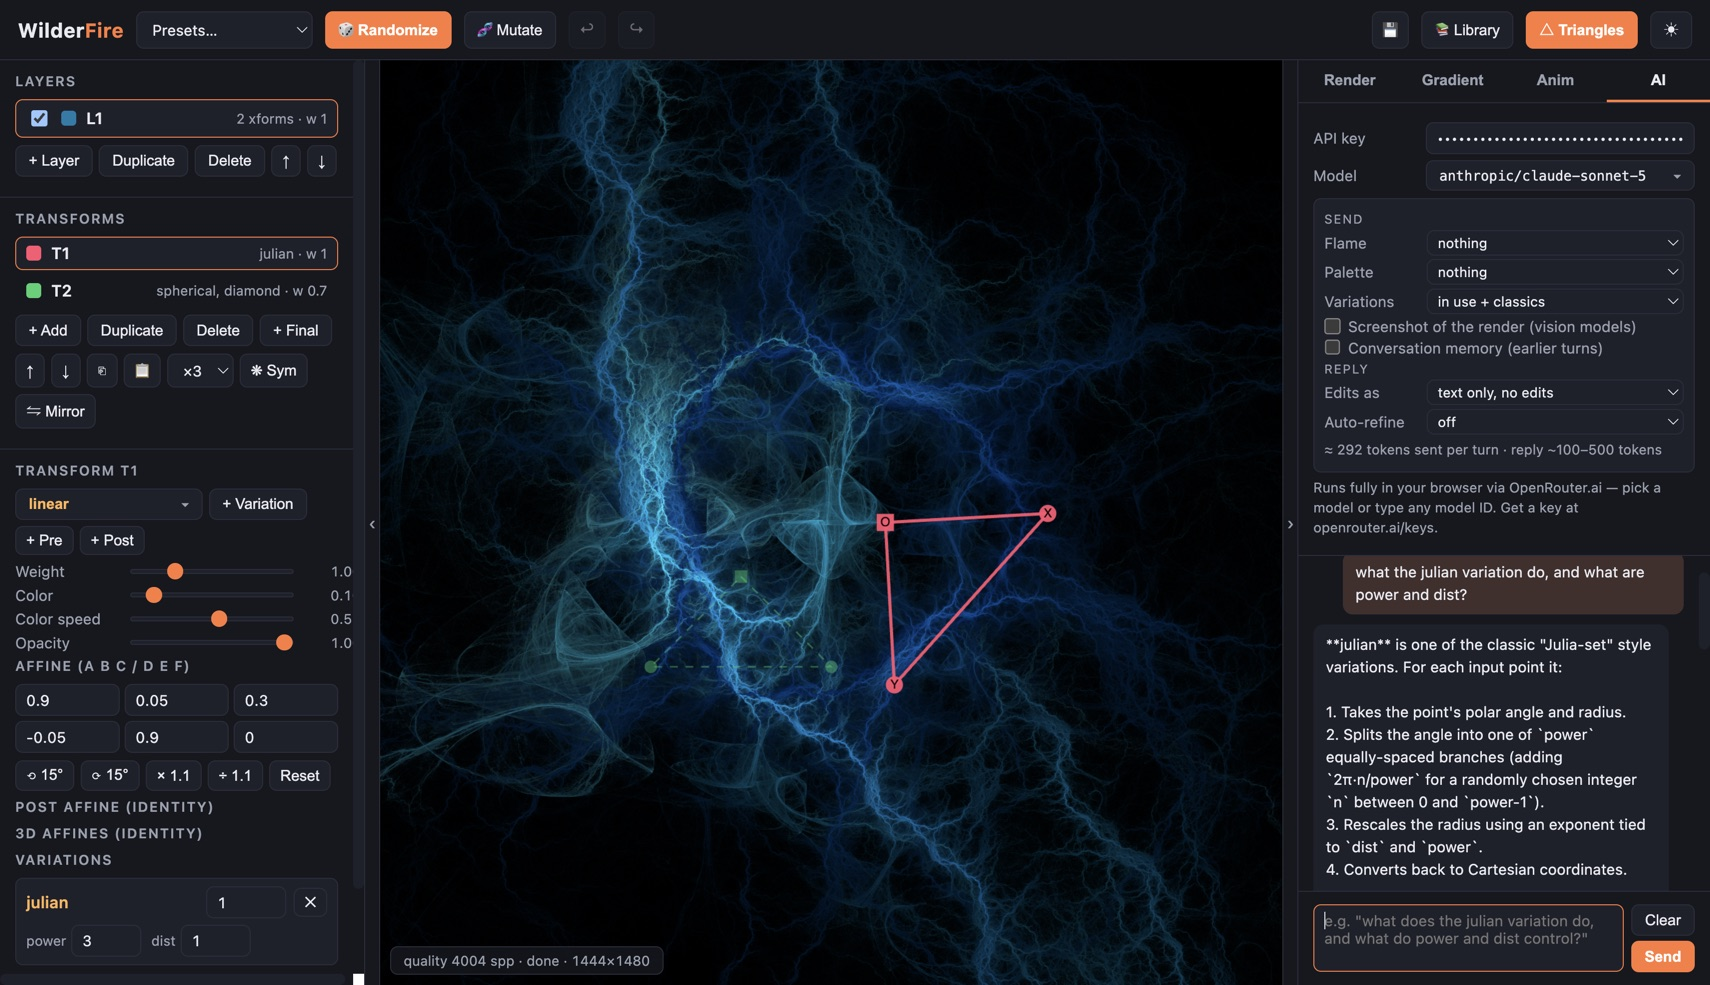
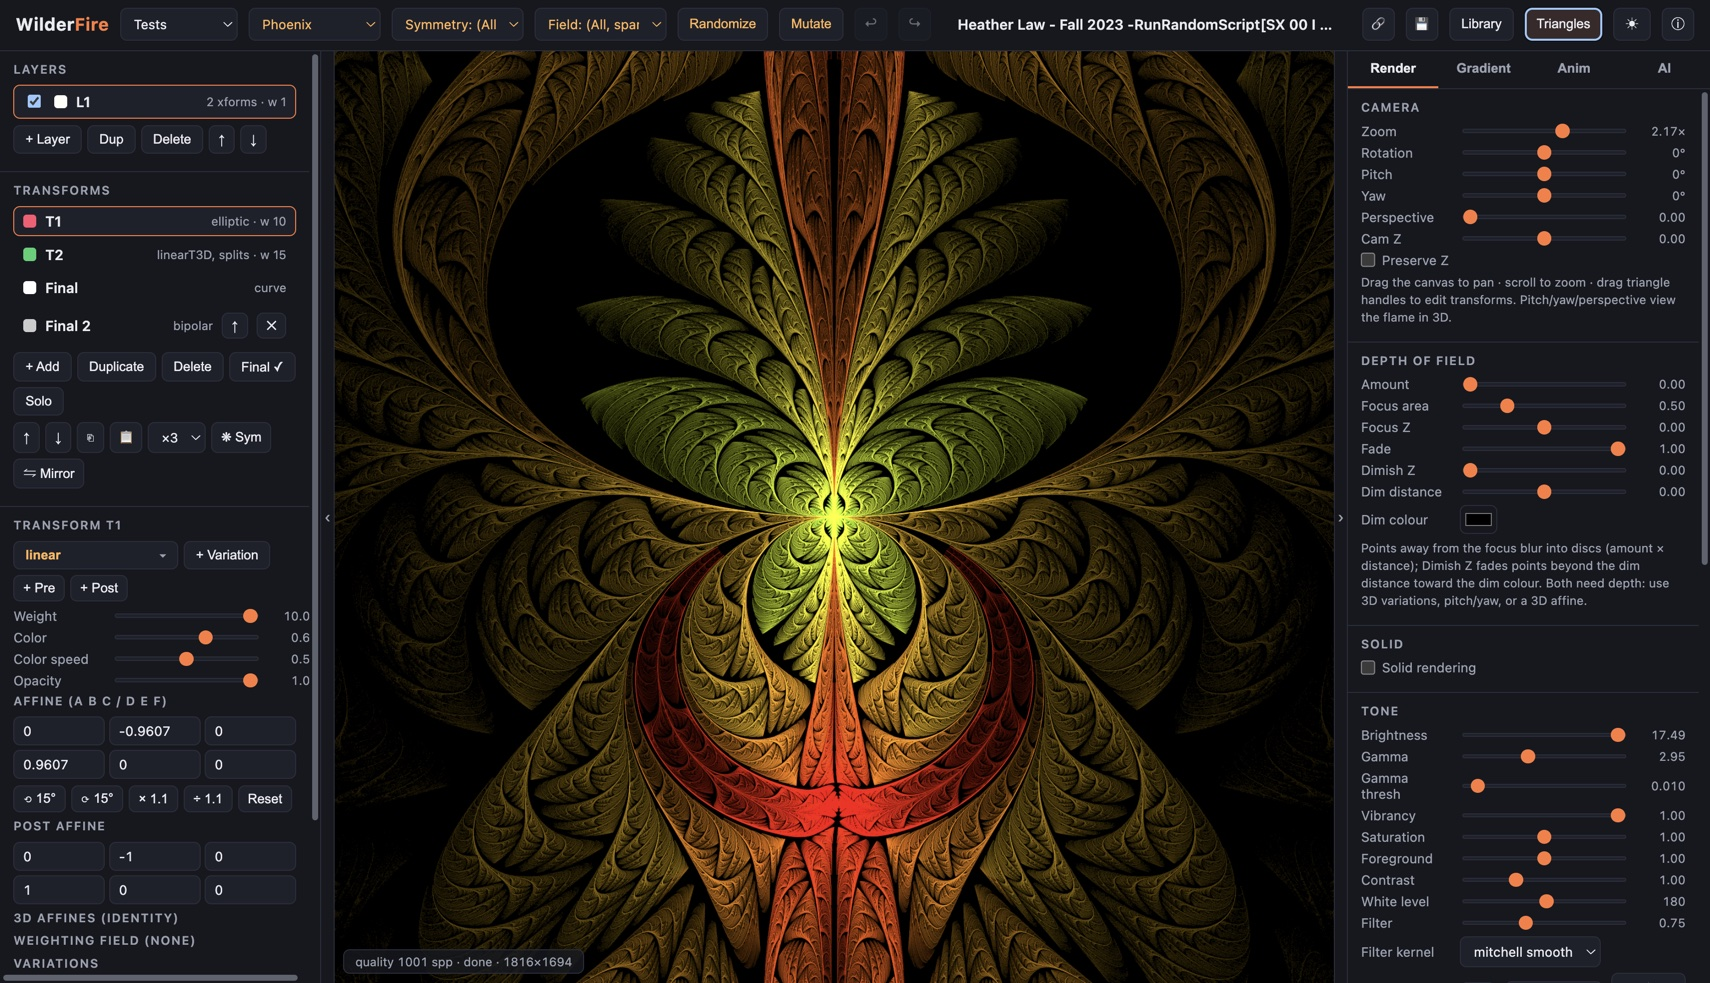
README: new hero image — the Phoenix-styled "Heather Law - Fall 2023" flame in the editor (1710px wide like the old one, JPEG q85); the alt text describes what the shot now shows

diff --git a/README.md b/README.md
@@ -9,7 +9,7 @@ Free software under the **LGPL-2.1-or-later** · © 2026 Andre Paquette ·
 **pull requests are not accepted** (issues and forks are welcome — see
 [CONTRIBUTING.md](CONTRIBUTING.md)).
 
-![WilderFire — a julian/spherical flame in the editor, with the transform panel, triangle overlay and AI assistant](docs/hero.jpg)
+![WilderFire — an elliptic/linearT3D flame in the editor, with the layer and transform panels on the left and the camera/DOF/tone controls on the right](docs/hero.jpg)
 
 ## Why WebGPU (and no wasm)
 
